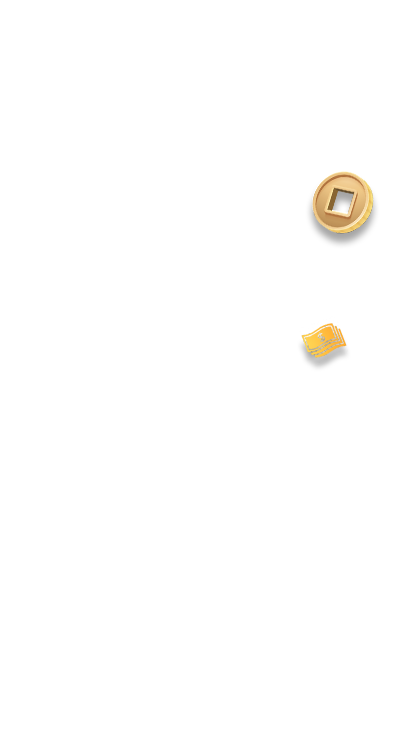
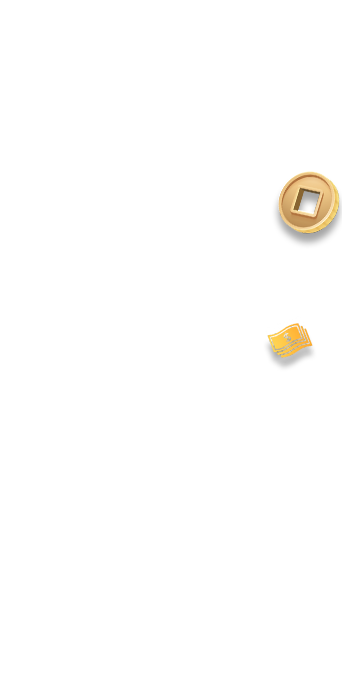
Modified all the details and solved some bugs

Changed region(s): [[0.731, 0.2121, 1.0, 0.3636], [0.731, 0.4242, 0.9357, 0.5455]]

diff --git a/src/App.vue b/src/App.vue
@@ -1,9 +1,11 @@
 <template>
   <!-- 抽奖的游戏机台 -->
+<div class="wheel-framework-wrap">
   <div class="framework-wrap">
-    <img src="../src/assets/framework-small-300.png" alt="">
+    <img src="../src/assets/framework.png" alt="">
   </div>
   
+  <div class="wheel-wrap-wrap">
   <!-- 抽奖转盘 -->
   <div class="wheel-wrap" :style="`transform: rotate(${wheelDeg}deg)`">
     <!-- v-for循环根据奖品信息生成对应角度的扇形并放置红包黄包 -->
@@ -30,6 +32,8 @@
  @@@@@@@@@@@@@@@*       -*@@@@@@-                            .-         @@@@@@@@%=.       
  *##############+ ..:=+#########:                                       @@@%#+-.          
                                                                                            -->
+
+  
     <div v-for="(item, index) in prizeInfo" :key="index">
       <!-- 生成半圆的矩形，即上图右边的矩形 -->
       <div class="sector" :style=this.initializeRotateDegree(index)>
@@ -45,8 +49,8 @@
           <span class="prizeText"
           :style="`
           transform: 
-          translateX(${10*(prizeInfo.length+1)-75}px) 
-          translateY(${-10*(prizeInfo.length+1)+75}px) 
+          translateX(${10*(prizeInfo.length+1)-80}px) 
+          translateY(${-10*(prizeInfo.length+1)+80}px) 
           rotate(${-180/(prizeInfo.length+1)}deg)
           `">现金</span>
           <!-- 扇形里的红包图片 -->
@@ -55,8 +59,8 @@
           <div class="img-group"
           :style="`
           transform: 
-          translateX(${10*(prizeInfo.length+1)-60}px) 
-          translateY(${-5*(prizeInfo.length+1)+45}px) 
+          translateX(${10*(prizeInfo.length+1)-65}px) 
+          translateY(${-5*(prizeInfo.length+1)+50}px) 
           rotate(${-180/(prizeInfo.length+1)}deg)
           `">
           <!-- 成品为红色黄色红包相间，故判断奇偶 -->
@@ -72,15 +76,15 @@
           <span class="prizeText"
           :style="`
           transform: 
-          translateX(${10*(prizeInfo.length+1)-75}px) 
-          translateY(${-10*(prizeInfo.length+1)+75}px) 
+          translateX(${10*(prizeInfo.length+1)-80}px) 
+          translateY(${-10*(prizeInfo.length+1)+80}px) 
           rotate(${-180/(prizeInfo.length+1)}deg)
           `">现金</span>
           <div class="img-group"
           :style="`
           transform: 
-          translateX(${10*(prizeInfo.length+1)-60}px) 
-          translateY(${-5*(prizeInfo.length+1)+45}px) 
+          translateX(${10*(prizeInfo.length+1)-65}px) 
+          translateY(${-5*(prizeInfo.length+1)+50}px) 
           rotate(${-180/(prizeInfo.length+1)}deg)
           `">
             <img class="envelope" v-if="index%2==0" src="../src/assets/redEnvelope.png">
@@ -109,7 +113,7 @@
           :style="`
           transform: 
           translateX(${10*(prizeInfo.length+1)-60}px) 
-          translateY(${-5*(prizeInfo.length+1)+50}px) 
+          translateY(${-5*(prizeInfo.length+1)+55}px) 
           rotate(${-180/(prizeInfo.length+1)}deg)
           `">
             <img class="envelope" src="../src/assets/thank.png">
@@ -129,7 +133,7 @@
           :style="`
           transform: 
           translateX(${10*(prizeInfo.length+1)-60}px) 
-          translateY(${-5*(prizeInfo.length+1)+50}px) 
+          translateY(${-5*(prizeInfo.length+1)+55}px) 
           rotate(${-180/(prizeInfo.length+1)}deg)
           `">
             <img class="envelope" src="../src/assets/thank.png">
@@ -137,18 +141,18 @@
         </div>
       </div>
   </div>
+  </div>
+</div>
+<div class="light-wrap">
   <!-- 转盘周围无限闪烁的装饰灯 -->
   <!-- 装饰灯颜色白红相间，故判断奇偶 -->
   <!-- lightSum设置灯数量，默认为20，如果需要根据奖品数量更改可添加methods -->
-  <div v-for="index in this.lightSum" :key="index">
-    <div class="light-wrap" :style=this.initializeLightDegree(index)>
-      <div v-if="index%2==0" id="circle-even" ></div>
-      <div v-else id="circle-odd"></div>
-    </div>  
-  </div>
+    <img id="light" src="../src/assets/light-background.png">
+</div>
+
   <!-- 可点击的抽奖指针 -->
   <div @click="onClickRotate" class="pointer-wrap">
-      <img src="../src/assets/pointer2.png" alt="">
+      <img src="../src/assets/pointer.png" alt="">
   </div>
   <!-- 跳转服务端按钮 -->
   <a href="https://qc4dgz.web.cloudendpoint.cn/">
@@ -156,12 +160,14 @@
     服务端
     </button>
   </a>
+
   <!-- 中奖信息弹出的窗口，包括出现于消失动画 -->
   <!-- fade transition为遮罩层（即背景变暗） -->
   <!-- 使用数据showModal判断是否弹出中奖页面 -->
  <transition name="fade" appear>
   <div class="modal-overlay" v-if="showModal" @click="showModal = false"></div>
  </transition>
+ <div class="modal-wrap">
   <div v-if="showModal">
     <!-- 观察给定demo，发现中奖页面主元素包括红包和红包中的纸，
     以及辅元素背景光晕、铜钱、纸币。
@@ -191,6 +197,7 @@
     <img id="right-icon" class="right-icon" src="../src/assets/right-icon.png">
     <img id="glow-circle" class="glow-circle" src="../src/assets/glow-circle.png">
   </div>
+</div>
 </template>
 
 <script>
@@ -375,16 +382,36 @@ export default {
   color: #2c3e50;
   margin-top: 60px;
 }
+body{
+  background:linear-gradient(to right, #ff9966, #ff5e62); /* W3C, IE 10+/ Edge, Firefox 16+, Chrome 26+, Opera 12+, Safari 7+ */;
+}
+
+
+.wheel-framework-wrap{
+  position: absolute;
+  left: 50%;
+  top: 50%;
+  transform: translate(-50%,-50%);
+}
+
 
 .framework-wrap{
-  position: absolute; left: 50%; top: 45.1%;
-  transform: translate(-50%, -50%);
+  position: absolute; left: 50%; top: 50%;
+  transform: translate(-50%, -50%) scale(3);
   z-index: 10;
 }
 
+.wheel-wrap-wrap{
+  position: relative;
+  left: 50%;
+  top: -300px;
+  transform: translate(-50%,-50%) scale(3)
+}
 .wheel-wrap{
   transform-origin: 0px 100px;
-  position: absolute; left: 50%; top: 30%;
+  position: absolute;
+  left: 50%;
+  top: 50%;
   transform: translate(-50%, -50%);
   transition: transform 5s ease-in-out;
 }
@@ -439,61 +466,34 @@ export default {
 }
 
 .light-wrap{
-  position: absolute;
-  width: 100px;
-  height: 240px;
-  border-radius: 0px 100px 100px 0;
-  overflow: hidden;
-  transform-origin: left center;
-  /* left: 38%; top: 30%; */
-  left:50%; top: 27.3%;
-  transform: translate(-50%, -50%);
+  /* color: black; */
   z-index: 30;
+  position: absolute;
+  left: 50%;
+  top: 50%;
+  transform: translate(-50%,-50%) scale(3);
 }
-#circle-even{
-height: 5px;;
-width:5px;
-border-radius: 5px;
-opacity: 1;
-
-animation: pulsate-even 1000ms ease-out;
-animation-iteration-count: infinite; 
-transition: background-color 300ms linear;
+#light{
+    animation: light-switch 1000ms;
+    animation-iteration-count: infinite; 
 }
-#circle-odd{
-height: 5px;;
-width:5px;
-border-radius: 5px;
-opacity: 1;
-
-animation: pulsate-odd 1000ms ease-out;
-animation-iteration-count: infinite; 
--webkit-transition: background-color 300ms linear;
-transition: background-color 300ms linear;
-}
-@keyframes pulsate-odd {
-0% {background: #f93d54;}
-45% {background:#f93d54;}
-50% {background:white;}
-100% {background:white;}
-}
-@keyframes pulsate-even {
-100% {background: #f93d54;}
-50% {background:#f93d54;}
-45% {background:white;}
-0% {background:white;}
+@keyframes light-switch {
+0% {background: url(../src/assets/light.png);}
+45% {background:url(../src/assets/light.png);}
+50% {background:url(../src/assets/light2.png);}
+100% {background:url(../src/assets/light2.png);}
 }
 
 .pointer-wrap{
   overflow: hidden;
-  transform-origin: left center;
-  position: absolute; left: 50%; top: 42%;
-  transform: translate(-50%, -50%);
+  /* transform-origin: left center; */
+  position: absolute; left: 50%; top: 50%;
+  transform: translate(-50%, -50%) scale(3);
   z-index:30;
 }
 
 .button {
-  position: relative;
+ position: relative;
  appearance: none;
  outline: none;
  border: none;
@@ -501,12 +501,12 @@ transition: background-color 300ms linear;
  cursor: pointer;
  /* display: inline-flex; */
  display: inline-block;
- padding: 15px 25px;
+ padding: 50px 75px;
  background-image: linear-gradient(to right, #CC2E5D, #FF5858);
- border-radius: 8px;
+ border-radius: 25px;
  
  color: #FFF;
- font-size: 18px;
+ font-size: 50px;
  font-weight: 700;
  
  box-shadow: 3px 3px rgba(0, 0, 0, 0.4);
@@ -515,7 +515,7 @@ transition: background-color 300ms linear;
 }
 .close{
   position: absolute; left: 50%; top: 45.1%;
-  transform: translateX(-50%) translateY(35vh);
+  transform: translateX(-50%) translateY(10vh);
   appearance: none;
   outline: none;
   border: none;
@@ -530,8 +530,8 @@ transition: background-color 300ms linear;
   z-index: 95;
 }
 @keyframes close-button-enter {
-  0% {transform: translate(-50%, 20vh);}
-  100% {transform: translate(-50%, 35vh);}
+  0% {transform: translate(-50%, 5vh);}
+  100% {transform: translate(-50%, 10vh);}
 }
 
 
@@ -542,7 +542,8 @@ transition: background-color 300ms linear;
  right: 0;
  bottom: 0;
  z-index: 80;
- background-color: rgba(0, 0, 0, 0.3);
+ background-color: rgba(0, 0, 0, 0.6);
+
 }
 .fade-enter-active
 /* .fade-leave-active { */
@@ -570,7 +571,7 @@ transition: background-color 300ms linear;
   z-index: 90;
   position: absolute;
   left: 50%;
-  top: 50%;
+  top: 49%;
   transform: translate(-50%,-50%);
 }
 .lottery-window-front{
@@ -642,7 +643,7 @@ transition: background-color 300ms linear;
 .right-icon{
  z-index: 90;
   position: absolute;
-  left: 50%;
+  left: 49%;
   top: 50%;
   transform: translate(-40%,-55%);
 }
@@ -663,4 +664,12 @@ transition: background-color 300ms linear;
   70% {opacity: 1; transform:translate(-50%,-50%) scale(1.8);}
   100% {opacity: 0; transform: translate(-50%,-50%) scale(1.9);}
 }
+.modal-wrap{
+  z-index: 85;
+  position: absolute;
+  left: 50%;
+  top: 50%;
+  transform: translate(-50%,-50%) scale(2);
+}
+
 </style>

diff --git a/public/index.html b/public/index.html
@@ -4,9 +4,12 @@
     <meta charset="utf-8">
     <meta http-equiv="X-UA-Compatible" content="IE=edge">
     <!-- <meta name="viewport" content="width=device-width,initial-scale=1.0"> -->
-    <meta name="viewport" content="width=411,height=731,user-scalable=no">
+    <!-- <meta name="viewport" content="width=411,height=731,user-scalable=no"> -->
+    <meta name="viewport" content="width=device-width, initial-scale=0.28, user-scalable=no;">
+
     <link rel="icon" href="<%= BASE_URL %>favicon.ico">
-    <title><%= htmlWebpackPlugin.options.title %></title>
+    <!-- <title><%= htmlWebpackPlugin.options.title %></title> -->
+    <title>抽奖转盘客户端</title>
   </head>
   <body>
     <noscript>
